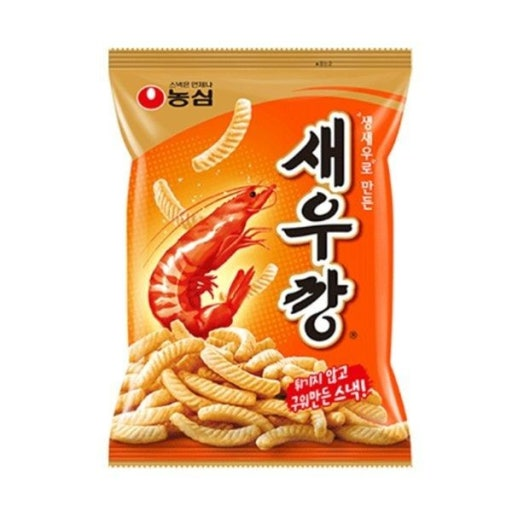
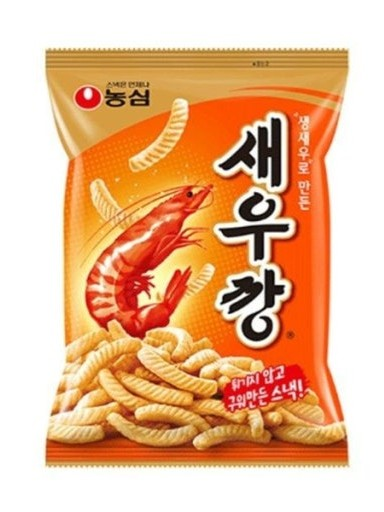
sn2

diff --git a/snack.html b/snack.html
@@ -6,7 +6,7 @@
     <title>과자 인식 Engine - Advanced Scanner</title>
     <style>
         /* ======================
-           RESET & CYBERPUNK BASE (전체 배경 딥블루-블랙)
+            RESET & CYBERPUNK BASE (전체 배경 딥블루-블랙)
         ====================== */
         * {
             box-sizing: border-box;
@@ -28,7 +28,7 @@
         }
 
         /* ======================
-           📱 SMARTPHONE UI (회색 테두리 + 검정 바디)
+            📱 SMARTPHONE UI (회색 테두리 + 검정 바디)
         ====================== */
         .phone-container {
             width: 360px;
@@ -110,6 +110,53 @@
             display: none;
         }
 
+        /* 🟢 [신규 추가] 스캔 레이저 라인 & 반투명 스캔빔 */
+        .scan-effect-wrapper {
+            position: absolute;
+            top: 0;
+            left: 0;
+            width: 100%;
+            height: 100%;
+            pointer-events: none;
+            display: none; /* 드롭 시 자바스크립트로 활성화 */
+            z-index: 5;
+        }
+
+        /* 위아래로 움직이는 레이저선과 하단으로 퍼지는 반투명 빔 */
+        .scan-laser {
+            position: absolute;
+            top: 0;
+            left: 0;
+            width: 100%;
+            height: 4px;
+            background: linear-gradient(90deg, transparent, #00e5ff, #3b82f6, #00e5ff, transparent);
+            box-shadow: 0 0 12px #00e5ff, 0 0 25px #3b82f6;
+            animation: scanMove 2s ease-in-out infinite alternate;
+        }
+
+        /* 레이저를 따라다니는 반투명 그라데이션 스캔빔 */
+        .scan-beam {
+            position: absolute;
+            top: 0;
+            left: 0;
+            width: 100%;
+            height: 100%;
+            background: linear-gradient(to bottom, rgba(0, 229, 255, 0.15) 0%, transparent 100%);
+            transform-origin: top center;
+            animation: beamMove 2s ease-in-out infinite alternate;
+        }
+
+        @keyframes scanMove {
+            0% { top: 0%; }
+            100% { top: 100%; }
+        }
+
+        @keyframes beamMove {
+            0% { top: 0%; height: 0%; opacity: 0; }
+            10% { opacity: 1; }
+            100% { top: 0%; height: 100%; opacity: 0.4; }
+        }
+
         /* 결과창 (기존 블랙 오버레이 완벽 유지) */
         .result-overlay {
             position: absolute;
@@ -126,6 +173,7 @@
             opacity: 0;
             transition: opacity 0.3s ease;
             pointer-events: none;
+            z-index: 6;
         }
 
         .result-overlay.active {
@@ -146,7 +194,7 @@
         }
 
         /* ======================
-           🍪 SNACK CARD LIST (스마트시티 네온 블루 테마 완벽 유지)
+            🍪 SNACK CARD LIST (스마트시티 네온 블루 테마 완벽 유지)
         ====================== */
         .card-list-container {
             width: 380px;
@@ -252,12 +300,17 @@
             <div class="camera-view" id="drop-zone">
                 <div class="camera-placeholder" id="placeholder-text">
                     <span style="font-size: 3.5rem;">🍤</span>
-                    <p style="margin-top: 12px; font-weight: 500;">과자를 드래그해서<br>여기에 쏙 넣어주세요!</p>
+                    <p style="margin-top: 12px; font-weight: 500;">과자를 드래그해서<br>여기에 넣어주세요!</p>
                 </div>
                 <img id="camera-image" class="scanned-img" src="" alt="과자 이미지">
                 
+                <div class="scan-effect-wrapper" id="scan-effect">
+                    <div class="scan-beam"></div>
+                    <div class="scan-laser"></div>
+                </div>
+
                 <div class="result-overlay" id="result-popup">
-                    <div class="result-title">스캔 분석 완료</div>
+                    <div class="result-title" id="scan-status-title">스캔 분석 중...</div>
                     <div class="result-name" id="snack-result-text">무슨 과자입니다</div>
                 </div>
             </div>
@@ -289,7 +342,7 @@
 
         <div class="snack-card" draggable="true" 
              data-name="칸쵸 🍪" 
-             data-img="con">
+             data-img="kan.jpg">
             <div class="snack-avatar">🍪</div>
             <div class="snack-info">
                 <h3>칸쵸</h3>
@@ -304,7 +357,9 @@
         const placeholder = document.getElementById('placeholder-text');
         const cameraImage = document.getElementById('camera-image');
         const resultPopup = document.getElementById('result-popup');
+        const resultStatusTitle = document.getElementById('scan-status-title');
         const resultText = document.getElementById('snack-result-text');
+        const scanEffect = document.getElementById('scan-effect');
 
         // 1. 드래그 시작 데이터 탑재
         cards.forEach(card => {
@@ -325,7 +380,7 @@
             dropZone.classList.remove('drag-over');
         });
 
-        // 4. 드롭 성공 처리
+        // 4. 드롭 성공 처리 (동적 스캔 애니메이션 연출)
         dropZone.addEventListener('drop', (e) => {
             e.preventDefault();
             dropZone.classList.remove('drag-over');
@@ -334,16 +389,34 @@
             const imageUrl = e.dataTransfer.getData('snackImg');
 
             if (snackName && imageUrl) {
+                // 기존 팝업 및 상태 초기화 후 이미지 노출
                 resultPopup.classList.remove('active');
-
                 placeholder.style.display = 'none';
                 cameraImage.src = imageUrl;
                 cameraImage.style.display = 'block';
 
+                // 스캔 빔/레이저 이펙트 가동
+                scanEffect.style.display = 'block';
+
+                // [단계 1] 드롭 즉시: 스캔 시작 알림
+                resultStatusTitle.textContent = "SYSTEM: 스캔 가동 중...";
+                resultText.textContent = "과자 실루엣 분석 중...";
+                resultPopup.classList.add('active');
+
+                // [단계 2] 1.2초 후: 인식 확률 계산 중 시뮬레이션
                 setTimeout(() => {
+                    resultStatusTitle.textContent = "ANALYSIS: 인식 확률 계산 중...";
+                    // 95%~99% 사이의 무작위 확률 생성하여 생동감 부여
+                    const randomConfidence = Math.floor(Math.random() * 5) + 95; 
+                    resultText.textContent = `일치율 ${randomConfidence}% 분석 완료`;
+                }, 1200);
+
+                // [단계 3] 2.4초 후: 최종 인식 완료 및 과자 이름 표시, 레이저 종료
+                setTimeout(() => {
+                    scanEffect.style.display = 'none'; // 레이저 종료
+                    resultStatusTitle.textContent = "🟢 스캔 완료";
                     resultText.textContent = `"${snackName}" 입니다!`;
-                    resultPopup.classList.add('active');
-                }, 250);
+                }, 2400);
             }
         });
     </script>